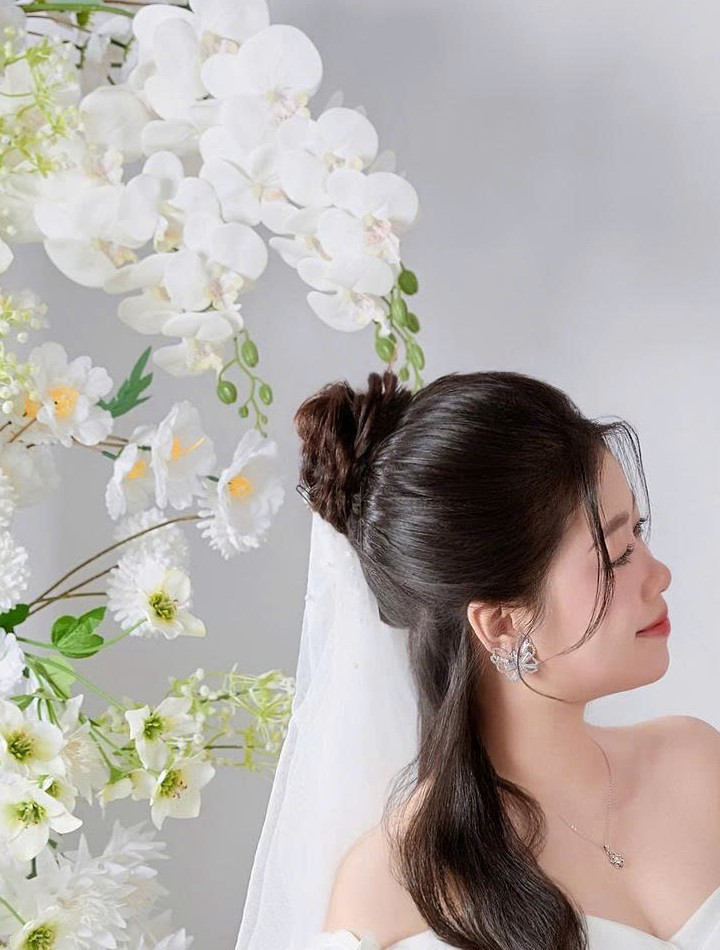
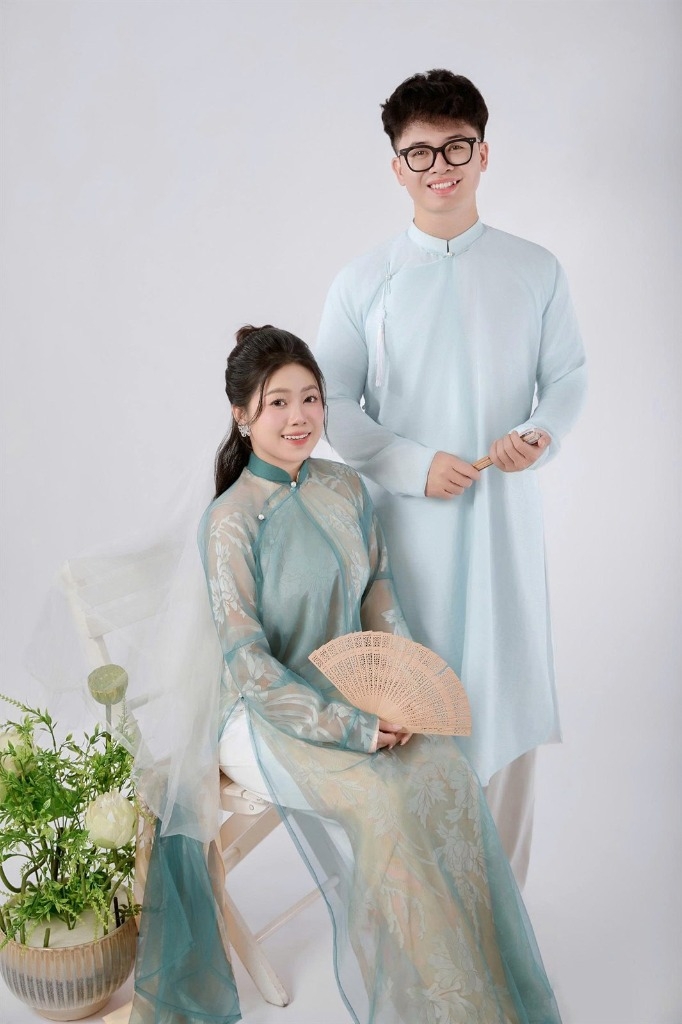
Cập nhật ảnh đại diện cô dâu và chú rể theo yêu cầu

diff --git a/style.css b/style.css
@@ -167,7 +167,7 @@ h1, h2, h3, h4 { font-family: var(--font-heading); font-weight: 600; color: var(
 }
 .person-oval div {
     width: 100%; height: 100%; border-radius: 50% / 60% 60% 40% 40%;
-    background-size: cover; background-position: center;
+    background-size: cover; background-position: top center;
 }
 .person-detail h3 { font-size: 2rem; color: var(--color-dark-green); margin-bottom: 5px; }
 .person-detail p { color: var(--color-text-gray); }
